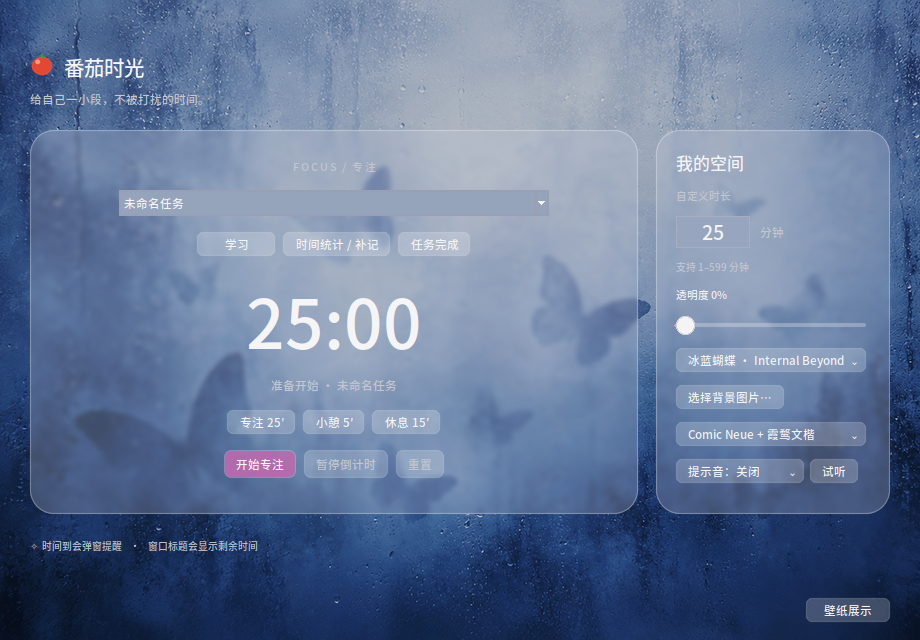
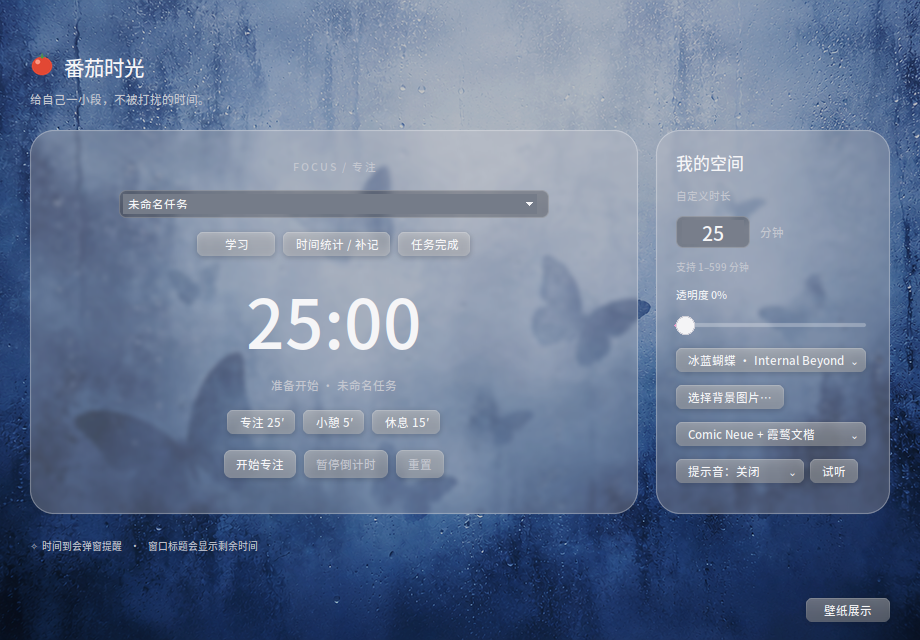
Linux: frosted glass buttons and input fields matching macOS look

diff --git a/linux/tomato_glass.py b/linux/tomato_glass.py
@@ -17,7 +17,7 @@ from pathlib import Path
 from tkinter import filedialog, messagebox, ttk
 
 try:
-    from PIL import Image, ImageDraw, ImageFilter, ImageTk
+    from PIL import Image, ImageDraw, ImageEnhance, ImageFilter, ImageTk
 except ImportError:  # pragma: no cover
     raise SystemExit("需要 Pillow：sudo apt install python3-pil python3-pil.imagetk  或  pip install pillow")
 
@@ -108,7 +108,7 @@ class Glass:
 
     def __init__(self, base):
         self.base = base.convert("RGBA")
-        self.cards, self.shapes = [], []
+        self.cards, self.shapes, self.buttons, self.fields = [], [], [], []
 
     def card(self, rect, radius=24):
         self.cards.append((rect, radius))
@@ -116,11 +116,60 @@ class Glass:
     def shape(self, rect, fill, outline=None, radius=6):
         self.shapes.append((rect, fill, outline, radius))
 
+    def button(self, rect, radius=6, strong=False):
+        """macOS 深色外观下的磨砂按钮：模糊+去饱和的背景、灰白色调、上亮下暗、柔和投影、无描边。"""
+        self.buttons.append((rect, radius, strong))
+
+    def field(self, rect, radius=7):
+        """输入框：略暗的磨砂凹槽 + 细高光边。"""
+        self.fields.append((rect, radius))
+
+    def _frost_fields(self, img):
+        for (x0, y0, x1, y1), r in self.fields:
+            w, h = x1 - x0, y1 - y0
+            region = ImageEnhance.Color(img.crop((x0, y0, x1, y1)).filter(ImageFilter.GaussianBlur(3))).enhance(0.6)
+            region = Image.alpha_composite(region, Image.new("RGBA", (w, h), (18, 24, 40, 70)))
+            img.paste(region, (x0, y0), rounded_mask((w, h), r))
+            ol = Image.new("RGBA", (w * 3, h * 3), (0, 0, 0, 0))
+            ImageDraw.Draw(ol).rounded_rectangle((0, 0, w * 3 - 1, h * 3 - 1), r * 3, outline=(255, 255, 255, 55), width=3)
+            img.alpha_composite(ol.resize((w, h), Image.LANCZOS), (x0, y0))
+        return img
+
+    def _frost_buttons(self, img):
+        for (x0, y0, x1, y1), r, strong in self.buttons:
+            w, h = x1 - x0, y1 - y0
+            # 柔和投影
+            sh = Image.new("RGBA", (w + 16, h + 16), (0, 0, 0, 0))
+            ImageDraw.Draw(sh).rounded_rectangle((8, 9, w + 8, h + 9), r, fill=(10, 16, 32, 45))
+            img.alpha_composite(sh.filter(ImageFilter.GaussianBlur(2.5)), (x0 - 8, y0 - 8))
+            # 磨砂本体
+            pad = 12
+            src = img.crop((x0 - pad, y0 - pad, x1 + pad, y1 + pad)).filter(ImageFilter.GaussianBlur(3))
+            region = ImageEnhance.Color(src.crop((pad, pad, pad + w, pad + h))).enhance(0.55)
+            tint = Image.new("RGBA", (w, h), (220, 224, 232, 92 if strong else 80))
+            region = Image.alpha_composite(region, tint)
+            # 上亮下暗的光泽
+            gloss = Image.new("RGBA", (1, h))
+            for yy in range(h):
+                t = yy / max(1, h - 1)
+                gloss.putpixel((0, yy), (255, 255, 255, round(26 * (1 - t) ** 1.5)))
+            region = Image.alpha_composite(region, gloss.resize((w, h)))
+            img.paste(region, (x0, y0), rounded_mask((w, h), r))
+            # 顶部 1px 高光
+            hl = Image.new("RGBA", (w * 3, h * 3), (0, 0, 0, 0))
+            ImageDraw.Draw(hl).rounded_rectangle((0, 0, w * 3 - 1, h * 3 - 1), r * 3, outline=(255, 255, 255, 60), width=2)
+            hl = hl.resize((w, h), Image.LANCZOS)
+            hl.putalpha(Image.composite(hl.getchannel("A"), Image.new("L", (w, h), 0),
+                                        Image.linear_gradient("L").rotate(180).resize((w, h))))
+            img.alpha_composite(hl, (x0, y0))
+        return img
+
     def render(self):
         img = self.base.copy()
         blurred = self.base.filter(ImageFilter.GaussianBlur(2.5))
         for (x0, y0, x1, y1), r in self.cards:
             region = blurred.crop((x0, y0, x1, y1))
+            region = ImageEnhance.Color(region).enhance(0.75)
             region = Image.alpha_composite(region, Image.new("RGBA", region.size, (205, 210, 228, 62)))
             img.paste(region, (x0, y0), rounded_mask(region.size, r))
         ss = self.SS
@@ -132,7 +181,7 @@ class Glass:
             d.rounded_rectangle((x0 * ss, y0 * ss, x1 * ss - 1, y1 * ss - 1), r * ss, fill=fill,
                                 outline=outline, width=ss if outline else 0)
         img = Image.alpha_composite(img, over.resize(img.size, Image.LANCZOS))
-        return img
+        return self._frost_buttons(self._frost_fields(img))
 
 
 def tomato_icon(size=22):
@@ -227,8 +276,7 @@ class TomatoGlass:
     def button(self, x, y, text, cmd, w=None, h=24, size=13, primary=False, popup=False):
         w = w or self.btn_width(text, size, 40 if popup else 24)
         rect = (int(x), int(y), int(x + w), int(y + h))
-        fill = PURPLE + (235,) if primary else (255, 255, 255, 52)
-        self.glass.shape(rect, fill, (255, 255, 255, 70), 7 if h > 24 else 6)
+        self.glass.button(rect, 7 if h > 24 else 6, primary)
         tx = x + 12 if popup else x + w / 2
         t = self.canvas.create_text(tx, y + h / 2, text=text, fill=TEXT, font=self.font(size),
                                     anchor="w" if popup else "center")
@@ -290,7 +338,8 @@ class TomatoGlass:
             r, g, b, _ = img.crop(rect).resize((1, 1), Image.BOX).getpixel((0, 0))
             col = f"#{r:02x}{g:02x}{b:02x}"
             if isinstance(widget, ttk.Combobox):
-                self.style.configure("Glass.TCombobox", fieldbackground=col, background=col)
+                self.style.configure("Glass.TCombobox", fieldbackground=col, background=col,
+                                     bordercolor=col, lightcolor=col, darkcolor=col)
                 self.style.map("Glass.TCombobox", fieldbackground=[("readonly", col), ("disabled", col)])
             else:
                 widget.configure(bg=col, disabledbackground=col)
@@ -300,8 +349,8 @@ class TomatoGlass:
         c, g = self.canvas, self.glass
         self.style = ttk.Style(self.root)
         self.style.theme_use("clam")
-        self.style.configure("Glass.TCombobox", foreground=TEXT, arrowcolor=TEXT, bordercolor="#9aa0b4",
-                             lightcolor="#9aa0b4", darkcolor="#9aa0b4", selectbackground="#7a6aa8",
+        self.style.configure("Glass.TCombobox", foreground=TEXT, arrowcolor=TEXT, borderwidth=0,
+                             selectbackground="#7a6aa8",
                              insertcolor=TEXT, padding=3)
         self.style.map("Glass.TCombobox", foreground=[("disabled", MUTED)])
         self.root.option_add("*TCombobox*Listbox.font", self.font(13))
@@ -324,9 +373,10 @@ class TomatoGlass:
         self.task_var = tk.StringVar(value=self.title_)
         self.task_box = ttk.Combobox(self.root, textvariable=self.task_var, values=tasks, style="Glass.TCombobox",
                                      font=self.font(13))
-        c.create_window(cx, y, window=self.task_box, anchor="n", width=430, height=26)
+        self.glass.field((int(cx - 215), y, int(cx + 215), y + 28))
+        c.create_window(cx - 4, y + 4, window=self.task_box, anchor="n", width=414, height=20)
         self._widgets.append(self.task_box)
-        self._fields.append((self.task_box, (int(cx - 215), y + 4, int(cx + 215), y + 22)))
+        self._fields.append((self.task_box, (int(cx - 205), y + 6, int(cx + 195), y + 22)))
         if not self.task_var.get():
             self.task_box.set("")
         y += 26 + 16
@@ -354,14 +404,15 @@ class TomatoGlass:
         y += 24 + 13
         self.label(x, y, "自定义时长", 12, muted=True)
         y += 16 + 13
-        self.minutes_var = tk.StringVar(value=str(int(self.duration // 60)))
+        self.minutes_var = tk.StringVar(value=str(max(1, int(self.duration // 60))))
         ent = tk.Entry(self.root, textvariable=self.minutes_var, justify="center", relief="flat", bd=0,
                        fg=TEXT, insertbackground=TEXT, font=tkfont.Font(family=self.timer_family, size=-22),
-                       highlightthickness=1, highlightbackground="#a8adbf", highlightcolor="#d9b4d8")
+                       highlightthickness=0)
         ent.bind("<Return>", lambda e: self.start_custom())
-        c.create_window(x, y, window=ent, anchor="nw", width=74, height=32)
+        self.glass.field((x, y, x + 74, y + 32))
+        c.create_window(x + 6, y + 4, window=ent, anchor="nw", width=62, height=24)
         self._widgets.append(ent)
-        self._fields.append((ent, (x + 3, y + 3, x + 71, y + 29)))
+        self._fields.append((ent, (x + 8, y + 6, x + 66, y + 26)))
         self.minutes_entry = ent
         self.label(x + 84, y + 16, "分钟", 13, muted=True, anchor="w")
         y += 32 + 11
@@ -625,8 +676,8 @@ class TomatoGlass:
         gl = Glass(base)
         gl.card((16, 16, 364, 184), 20)
         bw = 92
-        gl.shape((380 / 2 - bw - 6, 132, 380 / 2 - 6, 160), PURPLE + (235,), (255, 255, 255, 70), 7)
-        gl.shape((380 / 2 + 6, 132, 380 / 2 + 6 + bw, 160), (255, 255, 255, 52), (255, 255, 255, 70), 7)
+        gl.button((380 // 2 - bw - 6, 132, 380 // 2 - 6, 160), 7, True)
+        gl.button((380 // 2 + 6, 132, 380 // 2 + 6 + bw, 160), 7)
         win._img = ImageTk.PhotoImage(gl.render())
         cv.create_image(0, 0, image=win._img, anchor="nw")
         cv.create_text(190, 54, text="时间到啦", fill=TEXT, font=self.font(22, True))
